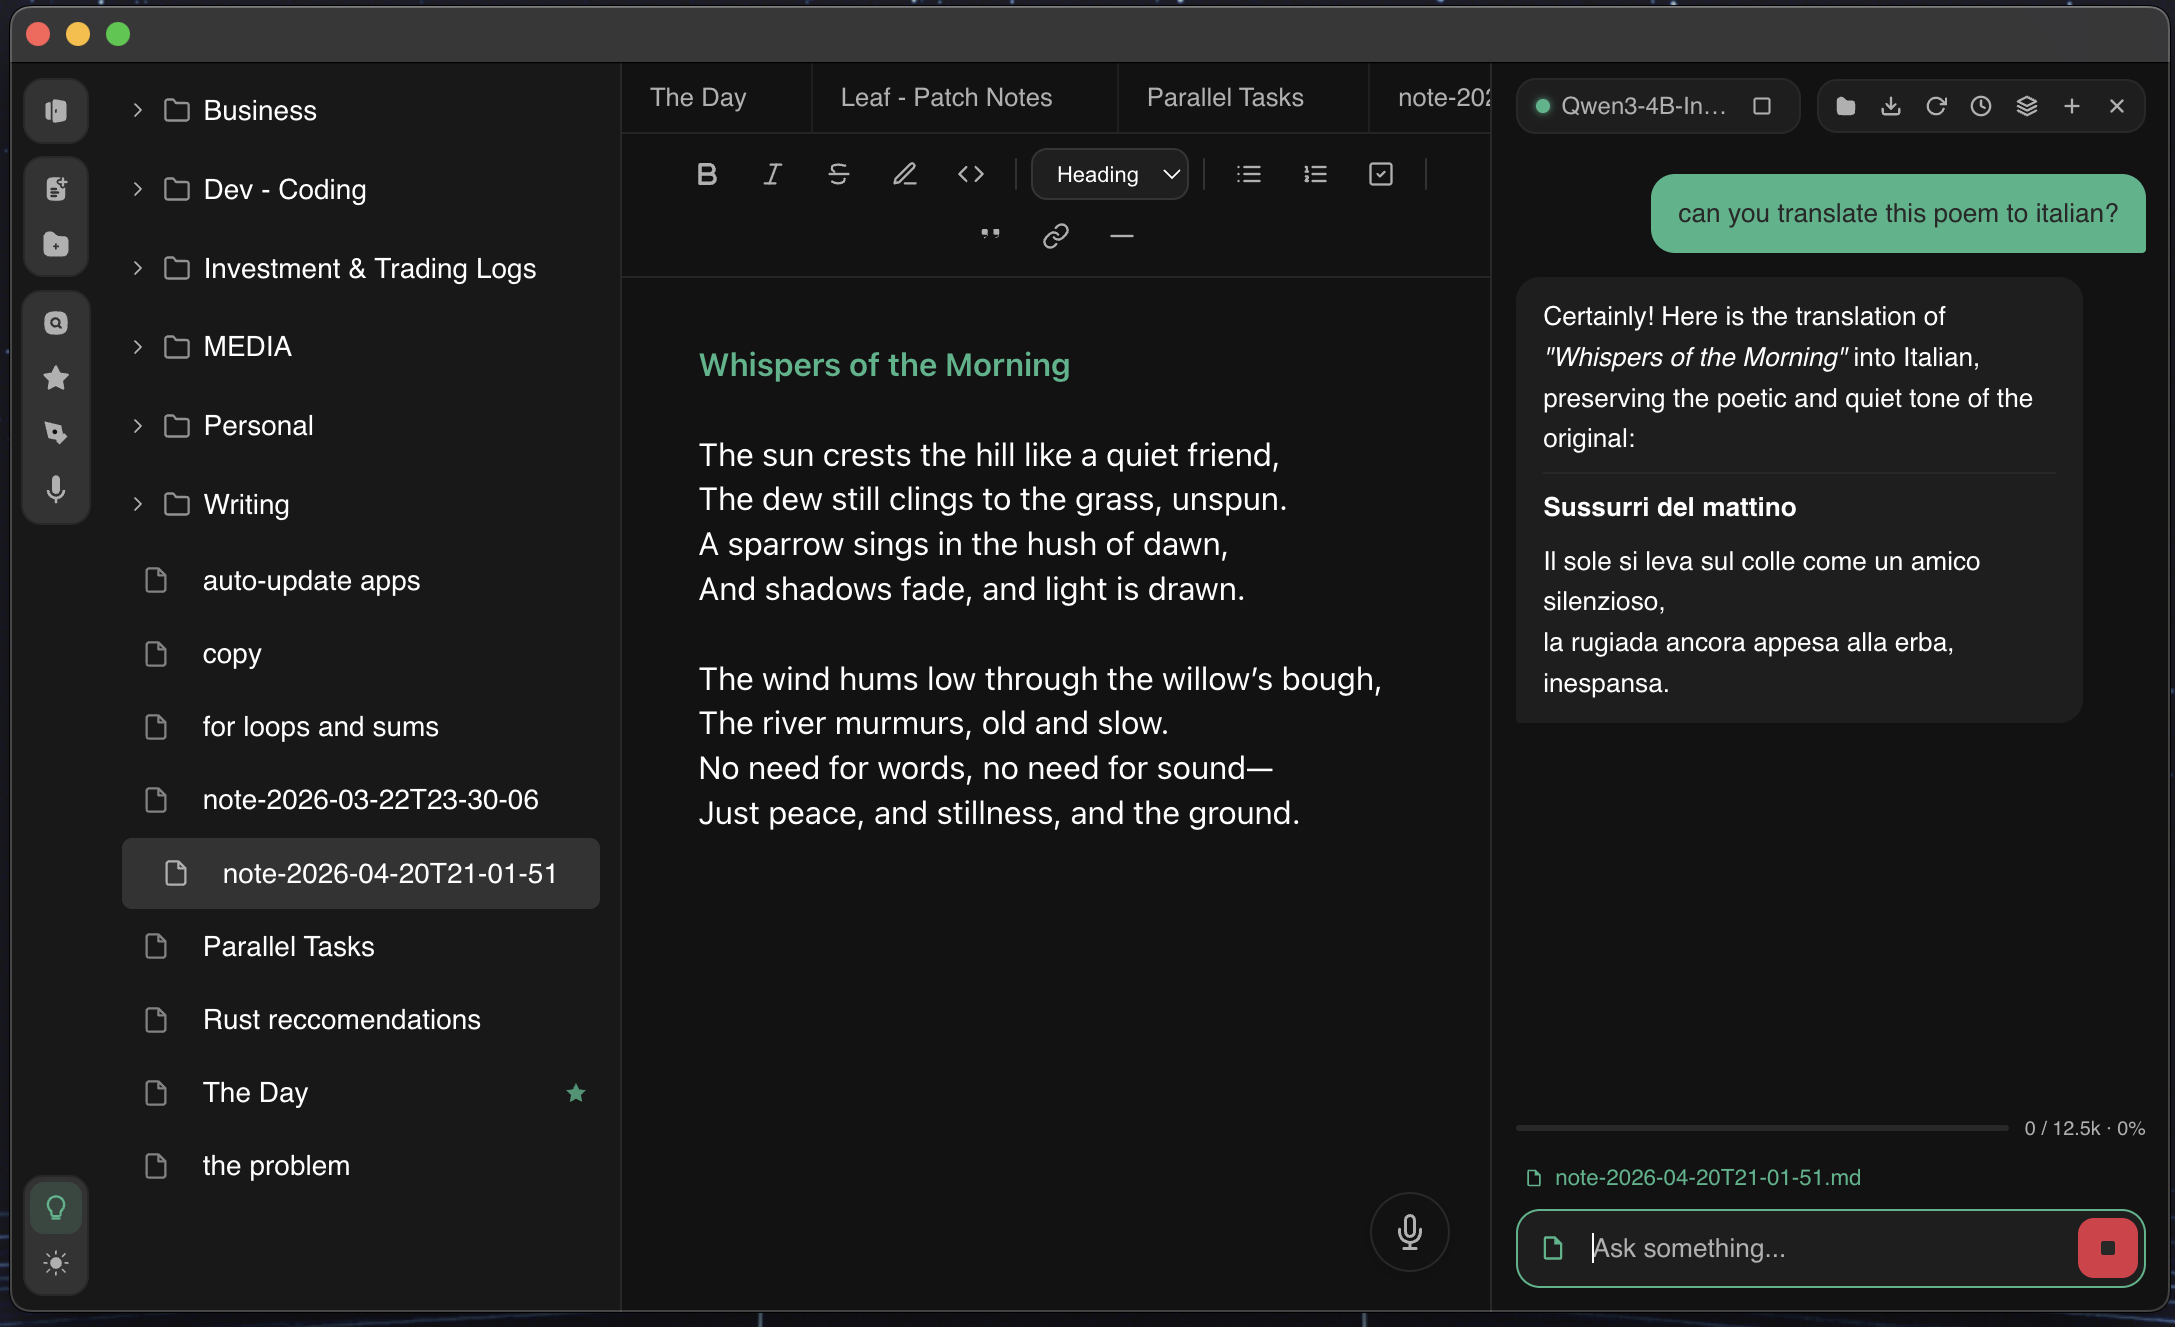
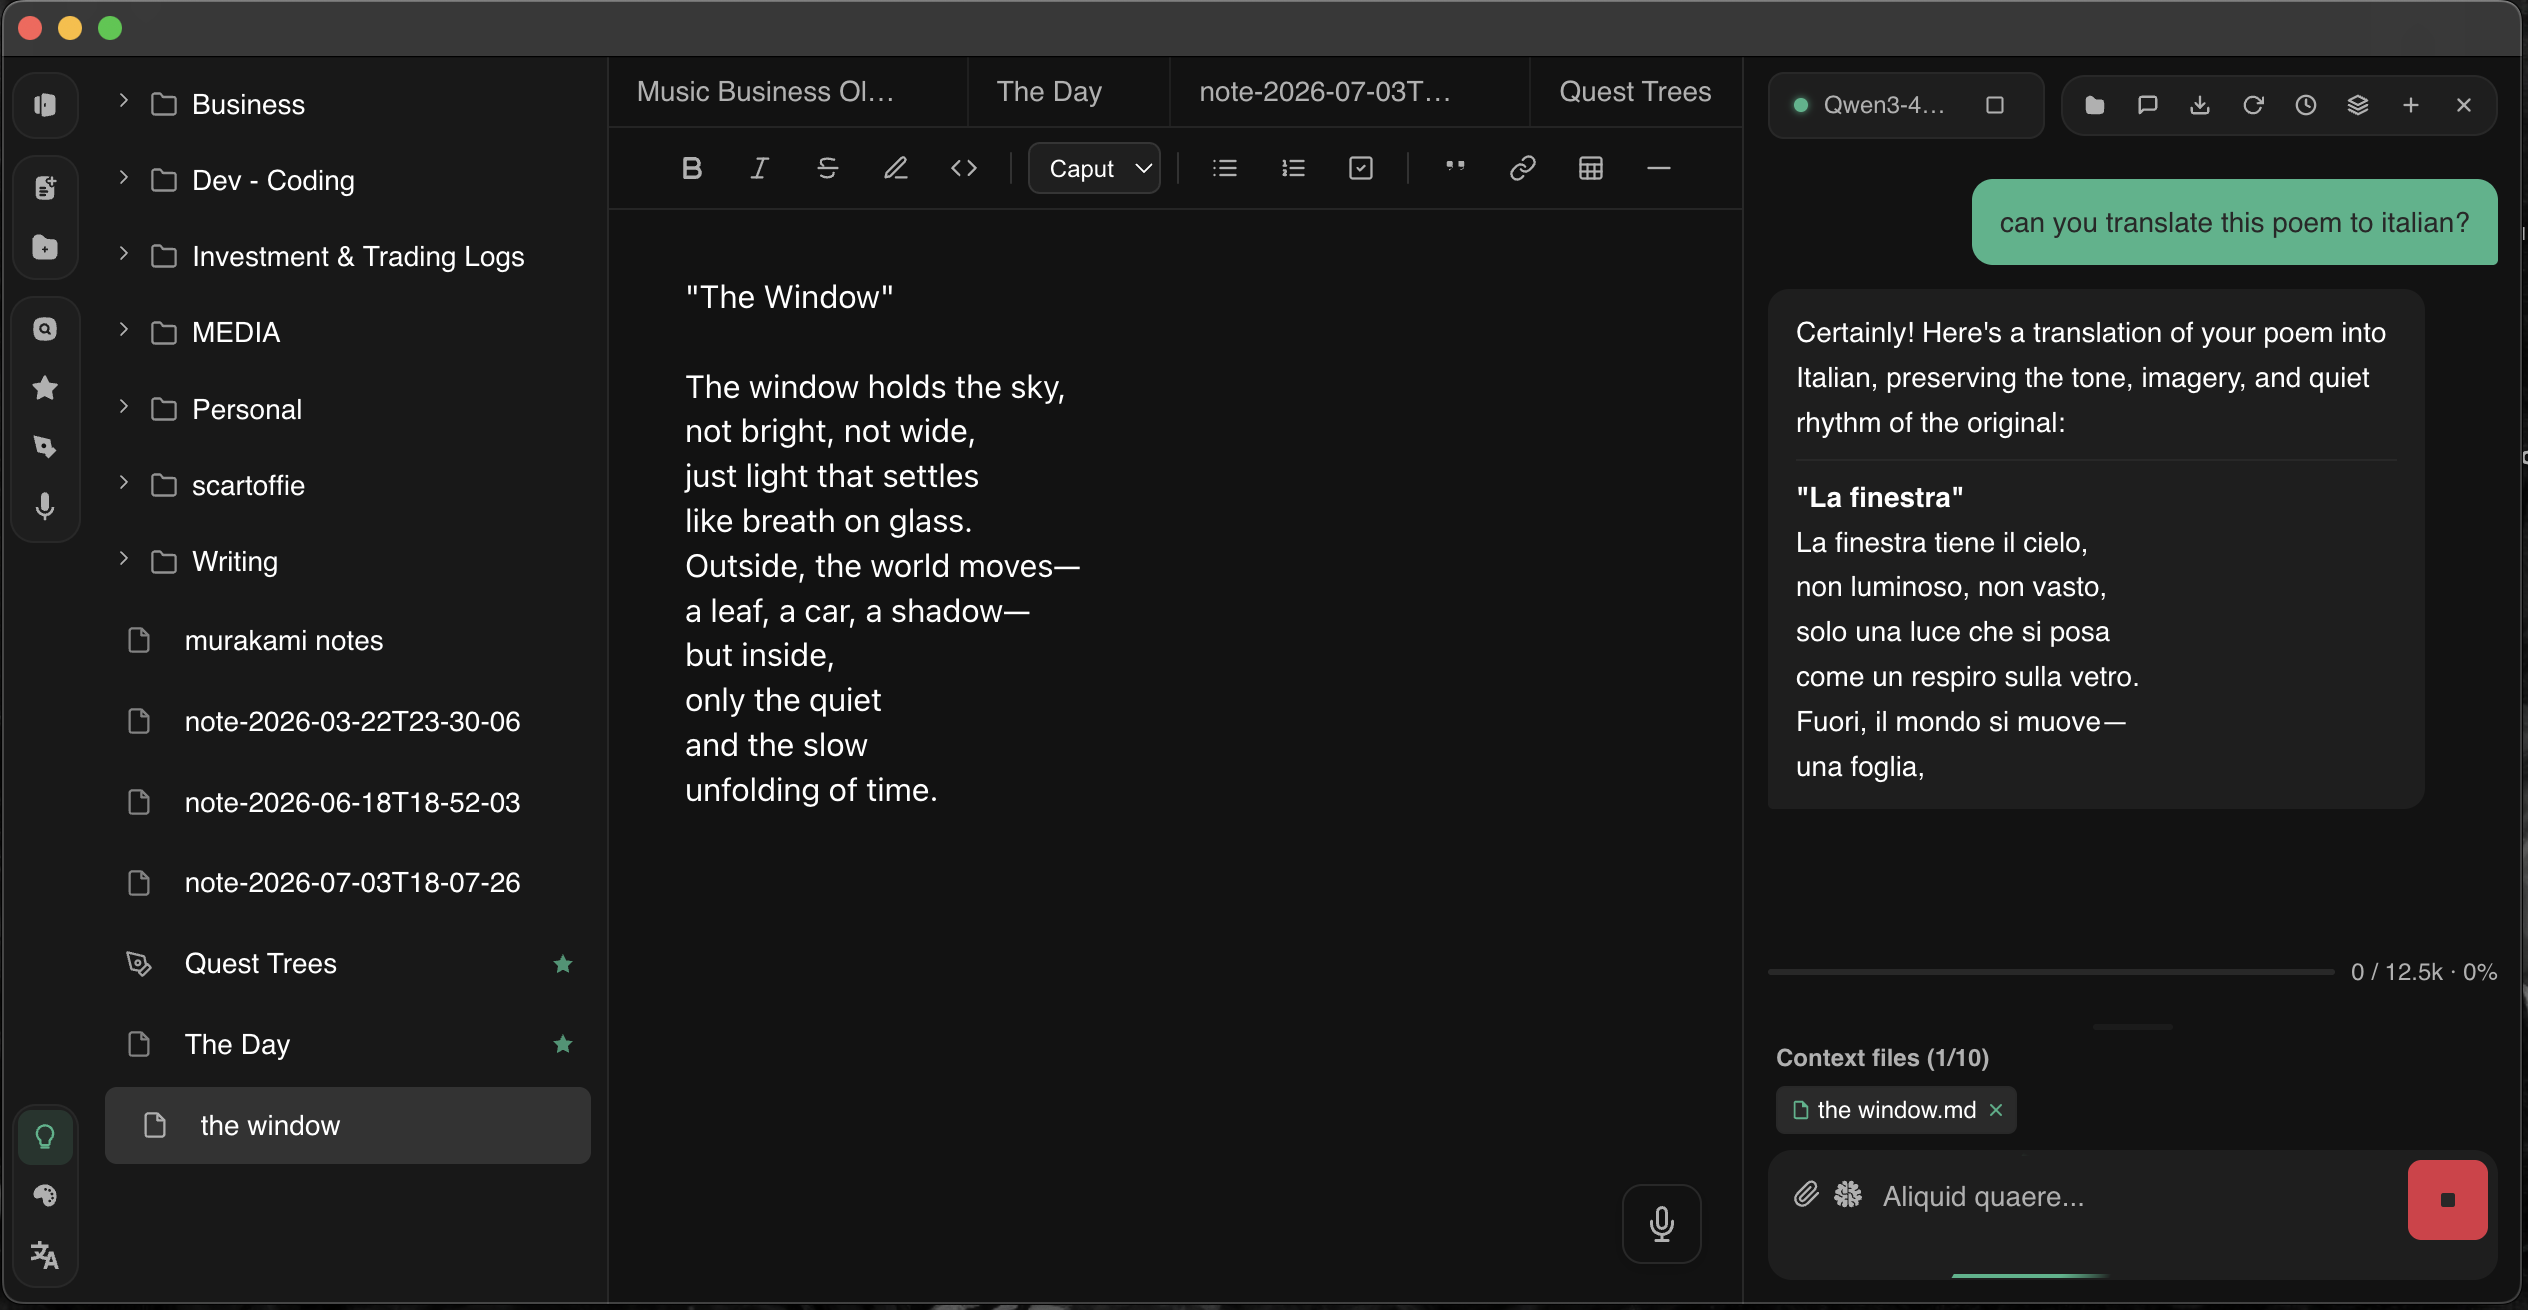
docs: updated demo picture since UI changed significantly
fix(i18n): outdated default locale files get updated on launch so keys are always up to date (user created locale files are unaffected), and en is fallback language

diff --git a/src/main/services/language.ts b/src/main/services/language.ts
@@ -5,8 +5,13 @@
  * Architecture mirrors theme.ts:
  *   - Each *.json file in ~/.leaf/locales/ is a language preset.
  *   - ~/.leaf/state.json records which language id is active.
- *   - Bundled defaults from <app>/assets/locales/ are copied in once on
- *     first launch; user edits are never overwritten.
+ *   - Bundled defaults from <app>/assets/locales/ are copied in on first
+ *     launch. On later launches, existing users get new keys backfilled from
+ *     the bundle without losing their own values; files that still match the
+ *     hash recorded for the last bundled copy (i.e. untouched) are fully
+ *     re-synced. A hidden manifest (~/.leaf/locales/.manifest.json) tracks
+ *     that hash per locale id. User-created locales have no bundled twin and
+ *     are never visited at all.
  *
  * Language JSON shape:
  *   {
@@ -20,12 +25,17 @@ import { shell, type IpcMain } from 'electron';
 import path from 'path';
 import fs from 'fs/promises';
 import { existsSync } from 'fs';
+import { createHash } from 'crypto';
 import { LEAF_HOME, LOCALES_DIR, STATE_FILE, getBundledLocalesDir } from '@/main/lib/paths';
 import { log } from '@/main/lib/logger';
 import { type LanguageInfo, type LanguageState, LanguageStateSchema } from '@/schemas/vault';
 
+/** Maps locale id -> sha256 of the bundled content it was last synced to. */
+type LocaleManifest = Record<string, string>;
+
 const DEFAULT_LANGUAGE_ID = 'en';
 const LANGUAGE_ID_PATTERN = /^[a-zA-Z0-9_-]+$/;
+const MANIFEST_FILE = path.join(LOCALES_DIR, '.manifest.json');
 let seeded = false;
 
 export function register(ipc: IpcMain): void {
@@ -52,7 +62,7 @@ export function register(ipc: IpcMain): void {
     });
 }
 
-/** Idempotent: copy bundled language files into ~/.leaf/locales/ if absent. */
+/** Idempotent: reconcile bundled language files into ~/.leaf/locales/. */
 export async function ensureSeeded(): Promise<void> {
     if (seeded) return;
     try {
@@ -60,71 +70,64 @@ export async function ensureSeeded(): Promise<void> {
 
         const bundled = getBundledLocalesDir();
         if (existsSync(bundled)) {
+            const manifest = await readManifest();
+            let manifestChanged = false;
+
             const entries = await fs.readdir(bundled, { withFileTypes: true });
             for (const entry of entries) {
                 if (!entry.isFile() || !entry.name.toLowerCase().endsWith('.json')) continue;
+
+                const id = entry.name.replace(/\.json$/, '');
+                const src = path.join(bundled, entry.name);
                 const dest = path.join(LOCALES_DIR, entry.name);
-                if (existsSync(dest)) continue;
-                await fs.copyFile(path.join(bundled, entry.name), dest);
-                log.info(`[language] Seeded ${entry.name}`);
+                const bundledContent = await fs.readFile(src);
+                const bundledHash = hashContent(bundledContent);
+
+                if (!existsSync(dest)) {
+                    await fs.writeFile(dest, bundledContent);
+                    manifest[id] = bundledHash;
+                    manifestChanged = true;
+                    log.info(`[language] Seeded ${entry.name}`);
+                    continue;
+                }
+
+                const destRaw = await fs.readFile(dest);
+                const destHash = hashContent(destRaw);
+                const lastSyncedHash = manifest[id];
+
+                if (lastSyncedHash !== undefined && destHash === lastSyncedHash) {
+                    if (bundledHash !== lastSyncedHash) {
+                        await fs.writeFile(dest, bundledContent);
+                        manifest[id] = bundledHash;
+                        manifestChanged = true;
+                        log.info(`[language] Re-synced ${entry.name} to bundled version`);
+                    }
+                    continue;
+                }
+
+                try {
+                    const destJson: unknown = JSON.parse(destRaw.toString('utf-8'));
+                    const bundledJson: unknown = JSON.parse(bundledContent.toString('utf-8'));
+                    if (
+                        isPlainObject(destJson) &&
+                        isPlainObject(bundledJson) &&
+                        fillMissingKeys(destJson, bundledJson)
+                    ) {
+                        await fs.writeFile(dest, JSON.stringify(destJson, null, 2) + '\n');
+                        log.info(`[language] Backfilled missing keys in ${entry.name}`);
+                    }
+                } catch (err) {
+                    log.warn(`[language] could not merge ${entry.name}, leaving as-is:`, err);
+                }
             }
+
+            if (manifestChanged) await writeManifest(manifest);
         }
 
         seeded = true;
     } catch (err) {
         log.error('[language] seeding failed:', err);
     }
-}
-
-async function readState(): Promise<LanguageState> {
-    try {
-        const data = await fs.readFile(STATE_FILE, 'utf-8');
-        const result = LanguageStateSchema.safeParse(JSON.parse(data));
-        if (result.success) {
-            return result.data;
-        } else {
-            log.warn('[language] state validation failed:', result.error);
-            return {};
-        }
-    } catch {
-        return {};
-    }
-}
-
-async function writeState(state: LanguageState): Promise<void> {
-    await fs.mkdir(LEAF_HOME, { recursive: true });
-    await fs.writeFile(STATE_FILE, JSON.stringify(state, null, 2));
-}
-
-export function isValidLanguageId(id: string): boolean {
-    return typeof id === 'string' && LANGUAGE_ID_PATTERN.test(id);
-}
-
-async function listLanguagesArray(): Promise<LanguageInfo[]> {
-    await ensureSeeded();
-    const languages: LanguageInfo[] = [];
-
-    try {
-        const entries = await fs.readdir(LOCALES_DIR, { withFileTypes: true });
-        for (const entry of entries) {
-            if (entry.isFile() && entry.name.endsWith('.json')) {
-                const id = entry.name.replace(/\.json$/, '');
-                if (isValidLanguageId(id)) {
-                    languages.push({
-                        id,
-                        name: id.toUpperCase(),
-                        path: path.join(LOCALES_DIR, entry.name),
-                    });
-                }
-            }
-        }
-    } catch (err) {
-        log.warn('[language] listLanguages failed:', err);
-    }
-
-    // Sort alphabetically
-    languages.sort((a, b) => a.id.localeCompare(b.id));
-    return languages;
 }
 
 export async function listLanguages(): Promise<{
@@ -193,4 +196,98 @@ export async function loadLanguageContent(id: string): Promise<{
         log.error(`[language] failed to load ${id}:`, err);
         return { success: false, error: (err as Error).message };
     }
+}
+
+export function isValidLanguageId(id: string): boolean {
+    return typeof id === 'string' && LANGUAGE_ID_PATTERN.test(id);
+}
+
+async function readState(): Promise<LanguageState> {
+    try {
+        const data = await fs.readFile(STATE_FILE, 'utf-8');
+        const result = LanguageStateSchema.safeParse(JSON.parse(data));
+        if (result.success) {
+            return result.data;
+        } else {
+            log.warn('[language] state validation failed:', result.error);
+            return {};
+        }
+    } catch {
+        return {};
+    }
+}
+
+async function writeState(state: LanguageState): Promise<void> {
+    await fs.mkdir(LEAF_HOME, { recursive: true });
+    await fs.writeFile(STATE_FILE, JSON.stringify(state, null, 2));
+}
+
+function hashContent(content: Buffer): string {
+    return createHash('sha256').update(content).digest('hex');
+}
+
+function isPlainObject(value: unknown): value is Record<string, unknown> {
+    return typeof value === 'object' && value !== null && !Array.isArray(value);
+}
+
+/**
+ * Recursively add keys present in `source` but missing from `target`,
+ * preserving every value already in `target` (i.e. the user's edits and
+ * existing translations). Returns true if anything was added.
+ */
+function fillMissingKeys(target: Record<string, unknown>, source: Record<string, unknown>): boolean {
+    let changed = false;
+    for (const [key, sourceValue] of Object.entries(source)) {
+        const targetValue = target[key];
+        if (!(key in target)) {
+            target[key] = structuredClone(sourceValue);
+            changed = true;
+        } else if (isPlainObject(targetValue) && isPlainObject(sourceValue)) {
+            if (fillMissingKeys(targetValue, sourceValue)) changed = true;
+        }
+        // else: key already present as a leaf (or type differs) — keep the user's value.
+    }
+    return changed;
+}
+
+async function readManifest(): Promise<LocaleManifest> {
+    try {
+        const data: string = await fs.readFile(MANIFEST_FILE, 'utf-8');
+        const parsed: unknown = JSON.parse(data);
+        if (parsed !== null && typeof parsed === 'object') return parsed as LocaleManifest;
+    } catch {
+        // No manifest yet (first run, or pre-dates this tracking).
+    }
+    return {};
+}
+
+async function writeManifest(manifest: LocaleManifest): Promise<void> {
+    await fs.writeFile(MANIFEST_FILE, JSON.stringify(manifest, null, 2));
+}
+
+async function listLanguagesArray(): Promise<LanguageInfo[]> {
+    await ensureSeeded();
+    const languages: LanguageInfo[] = [];
+
+    try {
+        const entries = await fs.readdir(LOCALES_DIR, { withFileTypes: true });
+        for (const entry of entries) {
+            if (entry.isFile() && entry.name.endsWith('.json')) {
+                const id = entry.name.replace(/\.json$/, '');
+                if (isValidLanguageId(id)) {
+                    languages.push({
+                        id,
+                        name: id.toUpperCase(),
+                        path: path.join(LOCALES_DIR, entry.name),
+                    });
+                }
+            }
+        }
+    } catch (err) {
+        log.warn('[language] listLanguages failed:', err);
+    }
+
+    // Sort alphabetically
+    languages.sort((a, b) => a.id.localeCompare(b.id));
+    return languages;
 }

diff --git a/src/renderer/composables/ui/useLanguage.ts b/src/renderer/composables/ui/useLanguage.ts
@@ -28,13 +28,17 @@ export function useLanguage() {
             const result = await window.electronAPI.languageList();
             if (result.success && result.languages !== undefined) {
                 languages.value = result.languages;
-                activeId.value = result.activeId ?? 'en';
-                locale.value = result.activeId ?? 'en';
-                // Load and apply messages for active language
-                const messages = await loadLanguageMessages(result.activeId ?? 'en');
-                if (messages !== null) {
-                    i18n.global.setLocaleMessage(result.activeId ?? 'en', messages as MessageSchema);
+                const id = result.activeId ?? 'en';
+
+                if (id !== 'en') {
+                    const fallback = await loadLanguageMessages('en');
+                    if (fallback !== null) i18n.global.setLocaleMessage('en', fallback as MessageSchema);
                 }
+                const messages = await loadLanguageMessages(id);
+                if (messages !== null) i18n.global.setLocaleMessage(id, messages as MessageSchema);
+
+                activeId.value = id;
+                locale.value = id;
             }
         } catch (err) {
             window.electronAPI.log.error('Failed to list languages:', err);

diff --git a/src/renderer/i18n.ts b/src/renderer/i18n.ts
@@ -1,19 +1,21 @@
 import { createI18n } from 'vue-i18n';
-import type en from '../../assets/locales/en.json';
+import en from '../../assets/locales/en.json';
 
 export type MessageSchema = typeof en;
 const DEFAULT_LOCALE = 'en';
 
 /**
- * Locales are loaded at runtime from ~/.leaf/locales/ via IPC.
- * This i18n instance is initialized with empty messages and populated
- * dynamically by useLanguage() via i18n.global.setLocaleMessage().
+ * Locales are loaded at runtime from ~/.leaf/locales/ via IPC and applied by
+ * useLanguage() with i18n.global.setLocaleMessage(). the bundled `en` is seeded
+ * so the very first paint has real strings (before that load resolves), and it
+ * doubles as the fallback locale for any key a translation is missing.
  */
-const defaultMessages = {};
+const defaultMessages = { en };
 
 export const i18n = createI18n({
     legacy: false,
     escapeParameter: true,
     locale: DEFAULT_LOCALE,
+    fallbackLocale: DEFAULT_LOCALE,
     messages: defaultMessages,
 });

diff --git a/tests/main/language.test.ts b/tests/main/language.test.ts
@@ -88,16 +88,18 @@ describe('language service', () => {
         expect(fs.existsSync(path.join(LOCALES_DIR, 'it.json'))).toBe(true);
     });
 
-    it('does not overwrite existing locale files when seeding', async () => {
+    it('preserves existing values but backfills missing keys when seeding', async () => {
         writeBundledLocale('en', { common: { save: 'Save' } });
-        // Write existing locale with different content
+        // Pre-manifest file the user already has, with their own content.
         fs.mkdirSync(LOCALES_DIR, { recursive: true });
         fs.writeFileSync(path.join(LOCALES_DIR, 'en.json'), JSON.stringify({ custom: true }));
         const { ensureSeeded } = await import('@/main/services/language');
         await ensureSeeded();
         const content = JSON.parse(fs.readFileSync(path.join(LOCALES_DIR, 'en.json'), 'utf-8'));
+        // Existing content is never overwritten...
         expect(content.custom).toBe(true);
-        expect(content.common).toBeUndefined();
+        // ...but keys the bundle has and the file lacks are added.
+        expect(content.common.save).toBe('Save');
     });
 
     it('is idempotent — calling ensureSeeded twice only copies once', async () => {

diff --git a/eslint.config.js b/eslint.config.js
@@ -228,6 +228,8 @@ export default [
             // v-html is used intentionally for rendered content
             'vue/no-v-html': 'off',
 
+            // Every v-for must have a key. 
+            'vue/require-v-for-key': 'error',
         },
     },
 